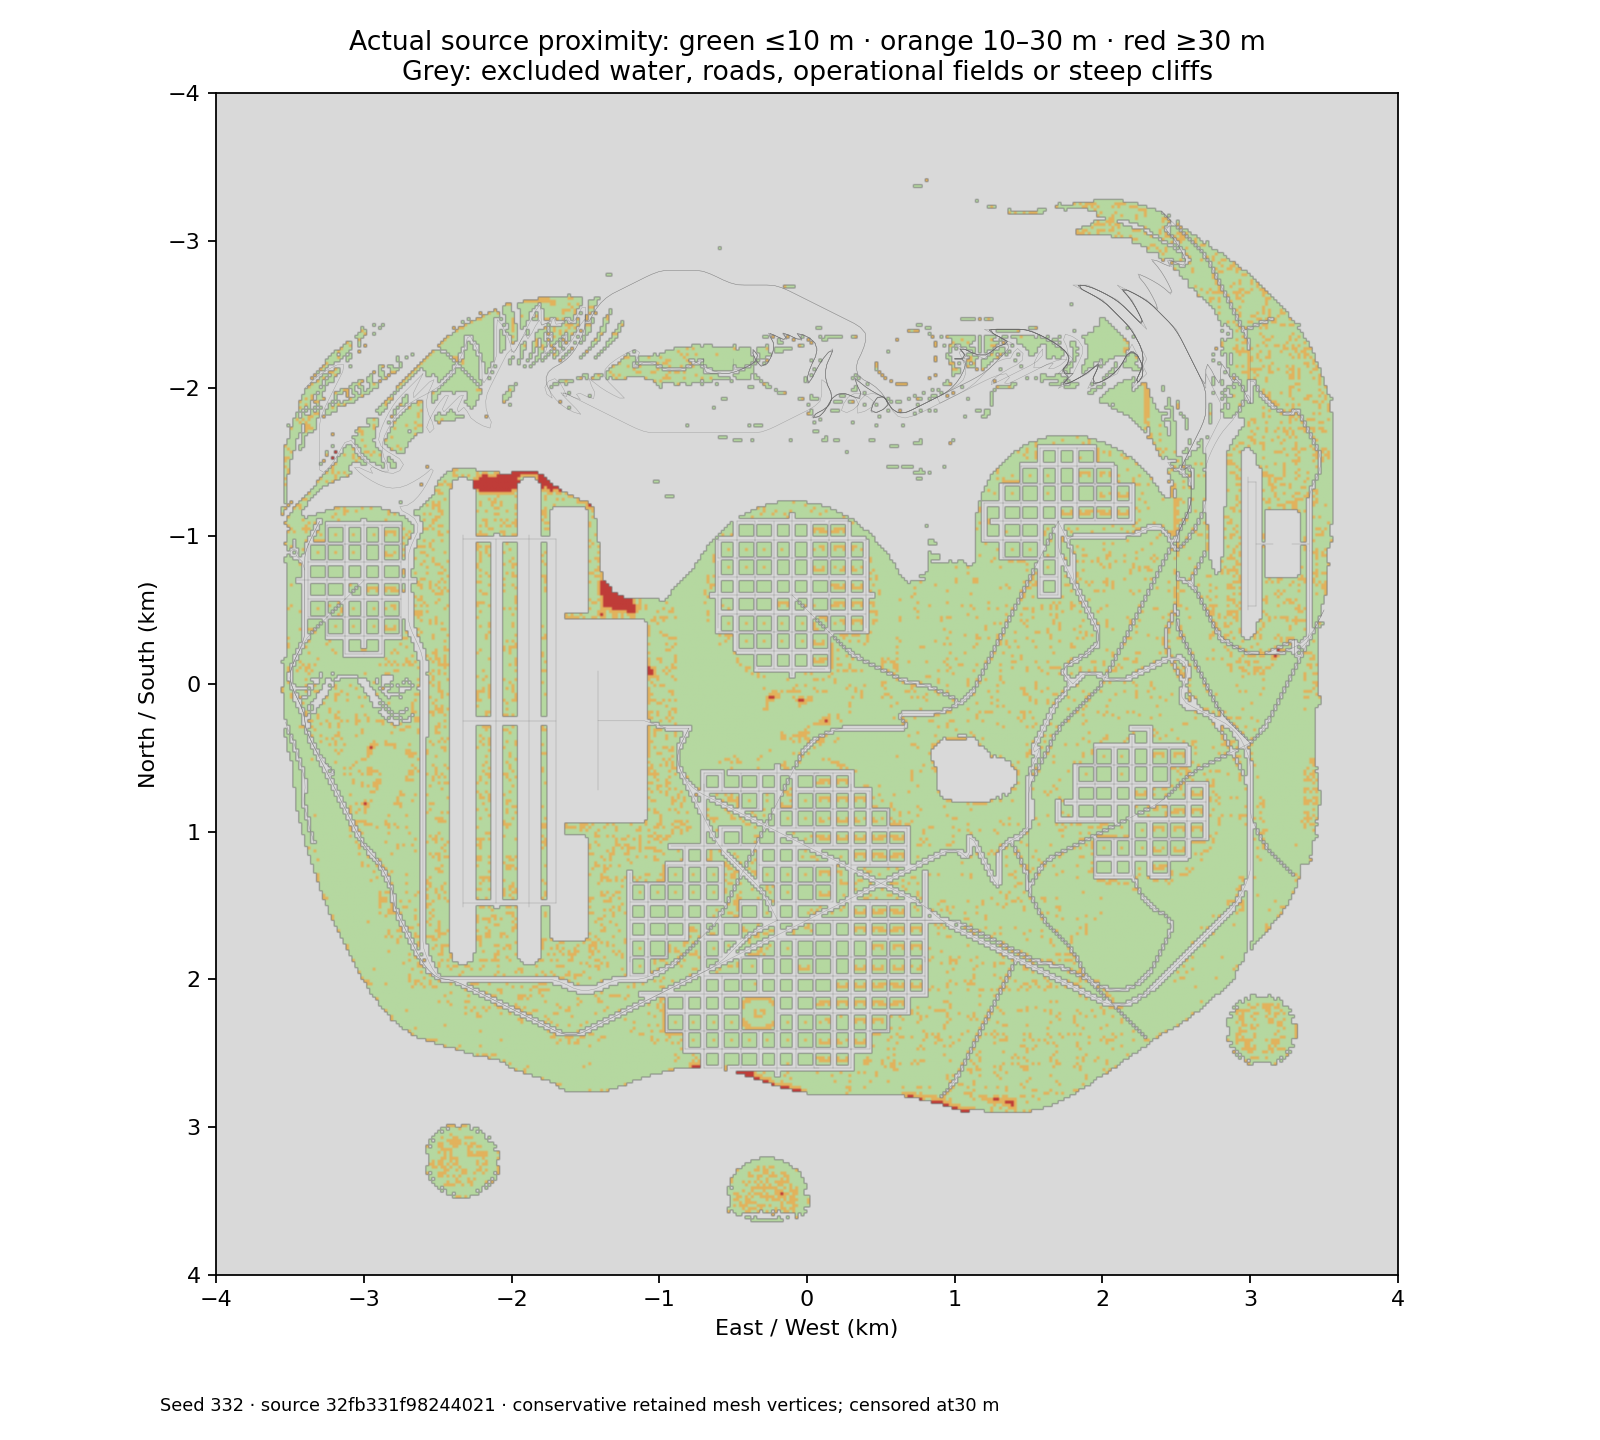
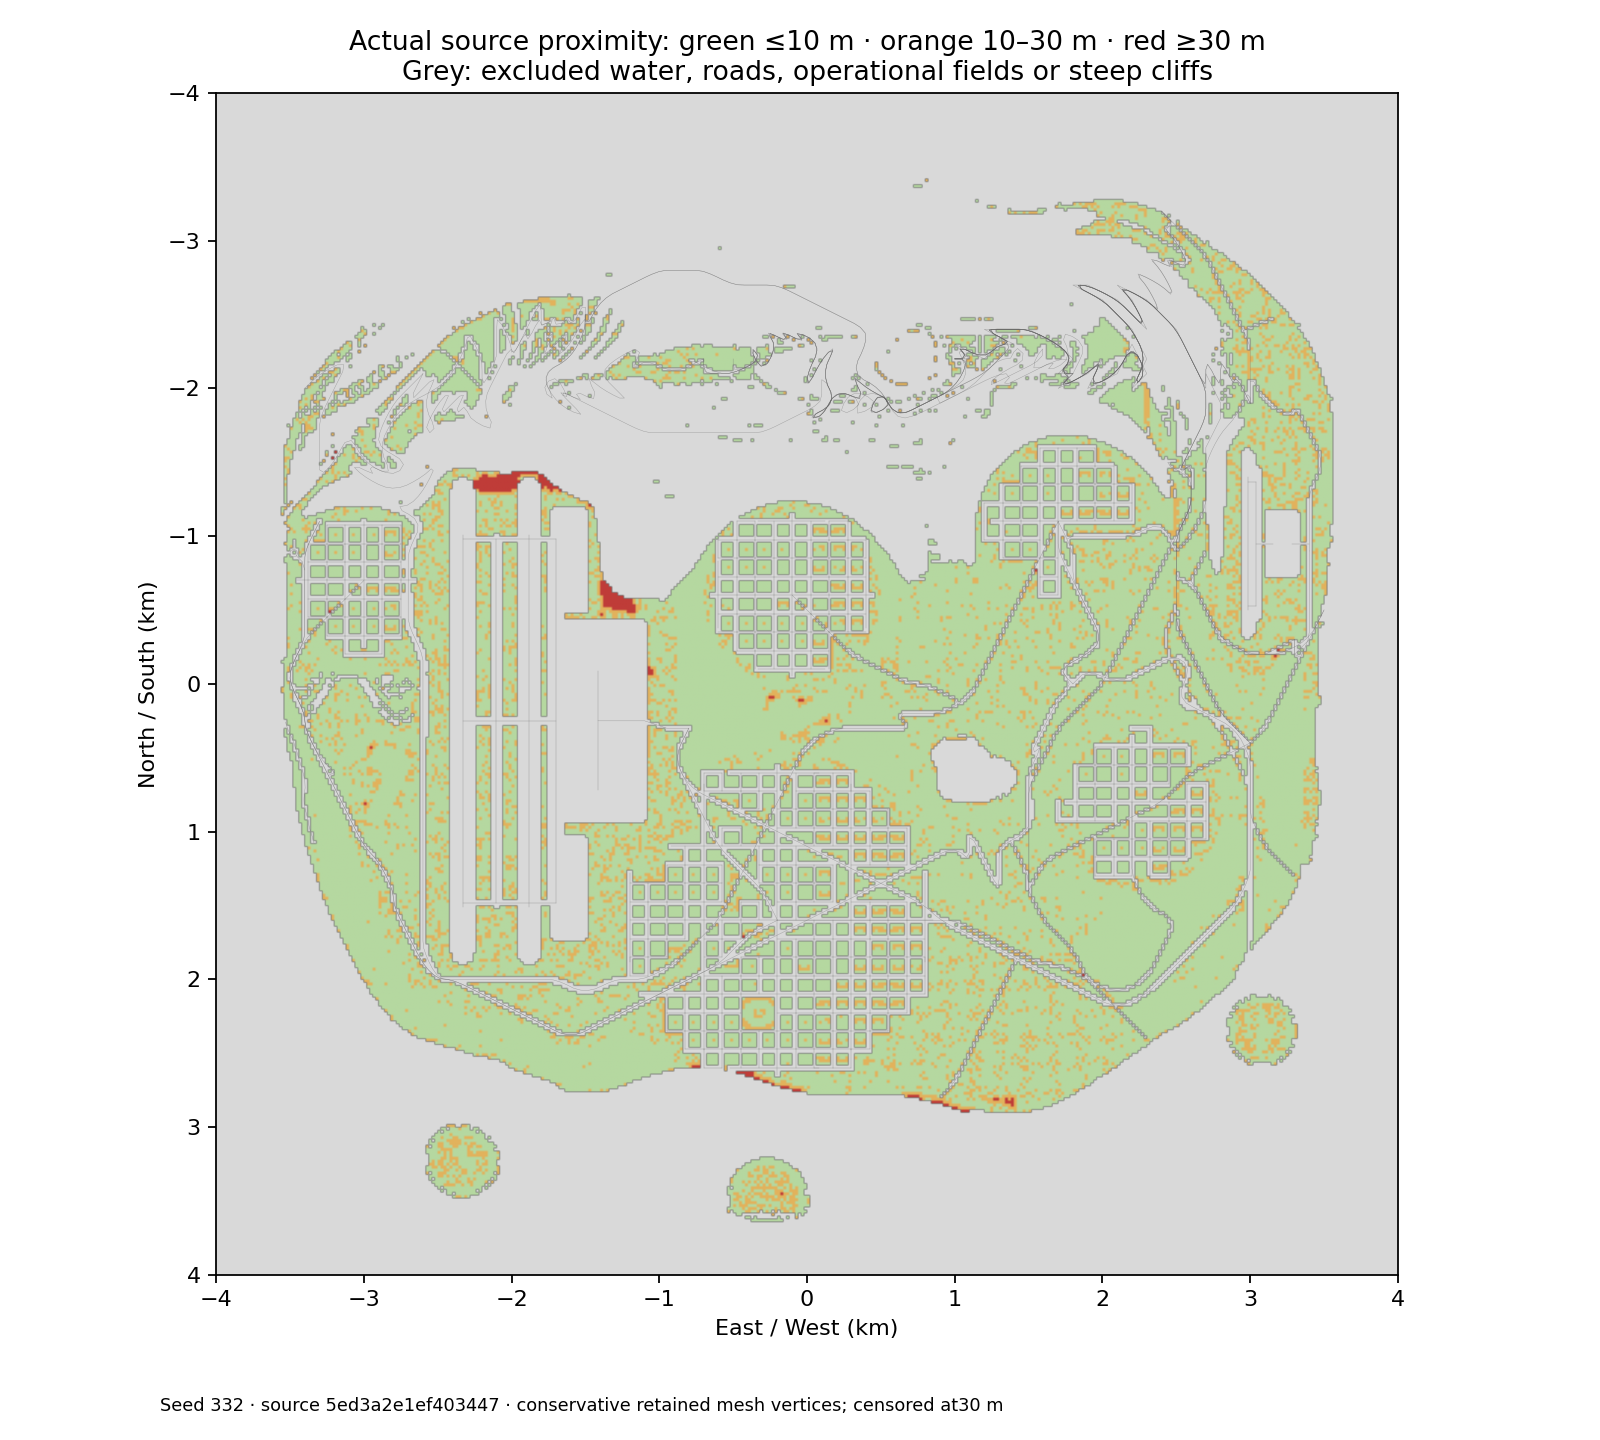
Refresh city census maps and district capture for grid infill

Changed region(s): [[0.2188, 0.9688, 0.625, 1.0], [0.4375, 0.5938, 0.4688, 0.625], [0.4062, 0.6562, 0.4375, 0.6875]]

diff --git a/docs/URBAN.md b/docs/URBAN.md
@@ -8,7 +8,7 @@ A low-rise block has sixteen houses: ten fronts on the long streets and six smal
 
 Building membership is declared from catalogue arrays. Trees, lamps, fences, signs, rooftop furniture and source mesh names cannot accidentally become buildings. Height is the actual maximum mesh Y above its placement origin, excluding buried foundations. Footprints are conservative oriented rectangles used by occupancy. Because accepted building footprints do not overlap, their sum equals their footprint union; this counts podium/porch envelopes rather than claiming an architectural wall-area survey.
 
-The normal world uses the existing catalogue rather than repeating the workload fixture. `residential.ts` supplies six cream, terracotta, grey, brick, ivory and loft variants with five to nine floors, commercial ground floors and different bay rhythms; adjoining pairs deliberately have different heights. `houses.ts` supplies gabled, hipped, porch, modern and cottage/duplex forms for detached gardens. `towers.ts` and `highrise.ts` supply different shafts, crowns, curtain walls, residential balconies and diagrid shapes; `tower-pair.ts` keeps selected small offices around open service plazas. This establishes neighborhood contrasts from original procedural assets. The mixed fronts still share a rectangular apartment archetype and balcony grammar. The #15 density pass adds shared six-floor streetwall footprints around tower blocks and shared three-storey terrace rows beside graded avenues beyond the original grid. Road-side rows leave small service gaps, and oaks occupy selected gaps. Harbor warehouses and rooftop antennas already exist, but a cohesive studio/industrial district with a large hall, attached workshops, equipment courts and mixed small-house service lanes is not authored by this district change. That broader asset/layout design belongs to the follow-up world design rather than a claim that these three classes recreate every supplied city reference.
+The normal world uses the existing catalogue rather than repeating the workload fixture. `residential.ts` supplies six cream, terracotta, grey, brick, ivory and loft variants with five to nine floors, commercial ground floors and different bay rhythms; adjoining pairs deliberately have different heights. `houses.ts` supplies gabled, hipped, porch, modern and cottage/duplex forms for detached gardens. `towers.ts` and `highrise.ts` supply different shafts, crowns, curtain walls, residential balconies and diagrid shapes; `tower-pair.ts` keeps selected small offices around open service plazas. This establishes neighborhood contrasts from original procedural assets. The mixed fronts still share a rectangular apartment archetype and balcony grammar. The #15 density pass adds shared six-floor streetwall footprints around tower blocks and shared three-storey terrace rows on partial parcels facing connected grid streets. Rows leave small service gaps, and oaks occupy selected gaps. Harbor warehouses and rooftop antennas already exist, but a cohesive studio/industrial district with a large hall, attached workshops, equipment courts and mixed small-house service lanes is not authored by this district change. That broader asset/layout design belongs to the follow-up world design rather than a claim that these three classes recreate every supplied city reference.
 
 District density divides buildings by the disjoint full-pitch block catchments, including half of adjacent streets and open lots. Coverage divides footprint union by the dry part of those catchments, sampled at at most 25 m spacing. Rejected water, slope, road, occupied and disconnected blocks remain explicit rejection counts; they are not silently included as built urban area. Civic parks and the stadium are reported separately. Each required residential, mixed and center zone has at least two actual avenue connections and a clear 1.2 m sidewalk circuit. Shared traversal validation checks actual geometric junctions, vertical levels and road grades; proximity alone is not connectivity.
 
@@ -24,6 +24,6 @@ The original 8 km² urban target remains in the report alongside its absolute an
 | Civic Green | 0.7 km² | 0.15 km² | 0.140625 km² | 1 stadium | 7.11 | 24.79% |
 | Total | 8.0 km² | 2.20 km² | 2.203125 km² | 1,298 | — | — |
 
-These are generated source observations for seed 332 after the finalized enclosing-island composition, not GTA measurements or hardware results. The three required building districts reach their original density and coverage envelopes. Civic coverage is reported separately and has no residential/tower coverage target. Beyond the tabulated catchments, 150 road-facing terraces add 81,900 m² of physical building footprint and 309 mature boulevard oaks. The city has 1,448 buildings and 6,616 total prop instances, with 365,508 unique catalogue triangles within the existing budgets; accessories and repeated placements do not inflate unique geometry counts. A local four-tile browser preview shows denser frontages and visible local streets, while grassy parcels and dark distant tower crowns remain visual limitations.
+These are generated source observations for seed 332 after the finalized enclosing-island composition, not GTA measurements or hardware results. The three required building districts reach their original density and coverage envelopes. Civic coverage is reported separately and has no residential/tower coverage target. Beyond the tabulated catchments, 236 street-facing terraces add 128,856 m² of physical building footprint and 77 mature boulevard oaks. The city has 1,534 buildings and 6,470 total prop instances, with 365,508 unique catalogue triangles within the existing budgets; accessories and repeated placements do not inflate unique geometry counts. A local four-tile browser preview shows denser frontages and visible local streets, while grassy parcels and dark distant tower crowns remain visual limitations.
 
 No city-wide hardware frame-time, memory or collision-capacity conclusion follows from these source counts. Renderer pools and base populations stay unchanged. Sidewalk circuits are within each supported block; crossing between different block floor levels requires the route task's explicit pedestrian crossing ramps rather than interpolated floating paths.

diff --git a/docs/COHERENT-WORLD.md b/docs/COHERENT-WORLD.md
@@ -82,35 +82,35 @@ records the source cook key, engine pin, census hash and map/PNG SHA-256 hashes.
 
 ## Integrated source measurements
 
-The measured source checkpoint is `3cb49bf`,
-with cook key `32fb331f98244021`. Both censuses include the #15 city density and
+The measured source checkpoint is `239b3d7`,
+with cook key `5ed3a2e1ef403447`. Both censuses include the #15 city density and
 local-street surface changes as well as #19, #20 and the tested local #21 route
 source. These are source-generation observations; GPU performance
 requires a separate check.
 
 | Seed | Placed nodes | Unique mesh triangles | Mesh buffers | Homes | Eligible samples ≤10 m | Eligible samples ≥30 m | Generation |   Peak RSS |
 | ---- | -----------: | --------------------: | -----------: | ----: | ---------------------: | ---------------------: | ---------: | ---------: |
-| 332  |      150,246 |             2,499,303 |   100.93 MiB |   671 |                 85.76% |                  0.46% |   115.38 s | 745.45 MiB |
-| 333  |      145,905 |             2,228,852 |    88.93 MiB |   496 |                 85.74% |                  1.59% |   121.40 s | 735.18 MiB |
+| 332  |      149,963 |             2,499,303 |   100.93 MiB |   671 |                 85.31% |                  0.47% |   113.95 s | 749.68 MiB |
+| 333  |      145,524 |             2,228,852 |    88.93 MiB |   496 |                 85.19% |                  1.60% |   127.12 s | 733.31 MiB |
 
-The 90th-percentile distance is 11.07 m / 11.24 m; the 95th percentile is
-13.30 m / 14.13 m. Operational fields, roads, water and steep cliffs are excluded
-and counted separately. Seeds 332 / 333 retain 239 / 850 eligible cells at least 30 m from
+The 90th-percentile distance is 11.13 m / 11.33 m; the 95th percentile is
+13.30 m / 14.17 m. Operational fields, roads, water and steep cliffs are excluded
+and counted separately. Seeds 332 / 333 retain 247 / 854 eligible cells at least 30 m from
 retained mesh witnesses. Airport and coast node allowances remain saturated at
 15,000 and 40,000 respectively. The separate gap map displays this residual;
 the approximately 10 m target is not achieved everywhere.
 
 | Seed 332 centre | Buildings | Maximum building height | Maximum roof altitude | Building footprint union | Dry urban blocks | Roads |
 | --------------- | --------: | ----------------------: | --------------------: | -----------------------: | ---------------: | ----: |
-| Primary south   |     1,448 |                 315.5 m |               332.3 m |               395,532 m² |        2.203 km² |   263 |
-| West            |       314 |                 125.4 m |               150.6 m |                66,181 m² |        0.438 km² |    60 |
-| Interior        |       553 |                 125.4 m |               257.2 m |               132,482 m² |        0.828 km² |    94 |
-| Northeast       |       326 |                 125.4 m |               267.5 m |                72,900 m² |        0.469 km² |    63 |
-| East            |       343 |                 125.4 m |               143.6 m |                84,604 m² |        0.516 km² |    76 |
+| Primary south   |     1,534 |                 315.5 m |               332.3 m |               395,532 m² |        2.203 km² |   263 |
+| West            |       318 |                 125.4 m |               150.6 m |                66,181 m² |        0.438 km² |    60 |
+| Interior        |       555 |                 125.4 m |               257.2 m |               132,482 m² |        0.828 km² |    94 |
+| Northeast       |       325 |                 125.4 m |               267.5 m |                72,900 m² |        0.469 km² |    63 |
+| East            |       385 |                 125.4 m |               143.6 m |                84,604 m² |        0.516 km² |    76 |
 
 The footprint column sums designated dry district catchments; the primary core
-also has 150 road-facing terraces outside those catchments, with 81,900 m² of
-additional physical footprint and 309 boulevard oaks. Its Bay Center downtown
+also has 236 grid-street-facing terraces outside those catchments, with 128,856 m²
+of additional physical footprint and 77 boulevard oaks. Its Bay Center downtown
 catchment now has 107,336 m² of building footprint across 0.266 km² of dry blocks,
 or 40.41% coverage, versus 13.93% before the density change. Every centre has a
 connected street component and physical buildings. Composed
@@ -138,13 +138,16 @@ The versioned [source map](captures/coherent-world.png),
 [333](captures/coherent-world-census-333.json) record this exact source checkpoint.
 The main map displays composed relief, five centres, physical building footprints,
 roads, both airfields, water and actual vegetation roots.
+The [district WebGL2 capture](captures/coherent-world-district.png) and its
+[capture record](captures/coherent-world-district-capture.json) show the current
+2 × 2 km preview on source head `239b3d7`.
 
 ## Validation
 
-The exact seed-332/333 source census above ran on `3cb49bf` and passed road-water,
+The exact seed-332/333 source census above ran on `239b3d7` and passed road-water,
 bridge-deck and traversal audits on both seeds. The local #15 density tests,
 TypeScript, ESLint, Prettier and line-count gate passed on the immediately prior
-city commit `f143cbb`; the road-surface change was checked by its focused tests
+city commit `8bf2005`; the road-surface change was checked by its focused tests
 before `3cb49bf`. At historical source commit `a8e7fe1`, the direct Prettier,
 ESLint, TypeScript, Knip, line-count and build gates passed. The 281-test full suite
 passed on the preceding `4d5a489` checkpoint; vegetation, stand and countryside

diff --git a/docs/island-preview.md b/docs/island-preview.md
@@ -45,16 +45,23 @@ island geometry renders; it is not a substitute for a full-world visual review.
 For seed 332, the primary downtown's conservative building footprint rose from 37,000 m²
 (13.93% of its dry block catchment) to 107,336 m² (40.41%). Shared streetwall meshes form
 continuous frontages around tower courts, with narrow corner passages and clear twin-office
-plots. Dry fragments beside authored avenues gained 150 road-facing terrace rows with
-81,900 m² of building footprint and 309 mature-oak instances. These are checked against
-terrain height, water, roads, and existing solid footprints. Primary city instances rose from
-6,157 to 6,616; unique city prop triangles rose by about 1.3%.
+plots. Partial parcels beside connected grid streets gained 236 street-facing terrace rows with
+128,856 m² of building footprint and 77 mature-oak instances. These are checked against
+terrain height, water, roads, and existing solid footprints. Primary city instances changed
+from 6,157 before density work to 6,470; unique city prop triangles rose by about 1.3%.
 
-The density-only four-tile district capture rendered 18,080 objects, 775 resident pages and
-1,679,598 selected triangles. Its rows follow the diagonal avenues, but broad grassy pockets
-are still visible. The combined local-street surface diagnostic then rendered the same 18,080
+The earlier density-only four-tile district capture rendered 18,080 objects, 775 resident pages
+and 1,679,598 selected triangles. The combined local-street surface diagnostic rendered 18,080
 objects, 775 resident pages and 1,679,685 selected triangles with paved block streets visible.
 Its strict capture result is invalid because one network request ended with `ERR_ABORTED`; the
 WebGL2 renderer was ready and reported no JavaScript exception. Software-rendered screenshots
-establish appearance and loading, not interactive frame rate. Grassy parcels, dark distant tower
-crowns and segmented shafts remain visible limitations.
+establish appearance and loading, not interactive frame rate. Both captures predate the grid-street
+parcel alignment in `8bf2005`.
+
+The [grid-street district capture](captures/coherent-world-district.png) on source head
+`239b3d7` is valid in WebGL2: 17,925 selected objects, 775 resident pages, 1,500,478 selected
+triangles, and no JavaScript exceptions or failed requests. The adjacent
+[capture record](captures/coherent-world-district-capture.json) includes the PNG SHA-256 and
+records the optional favicon 404. It shows frontage rows aligned to visible local streets.
+Large grassy parcels and distant tower crown artifacts remain visible. This regional subset
+does not establish whole-island startup or hardware frame performance.
